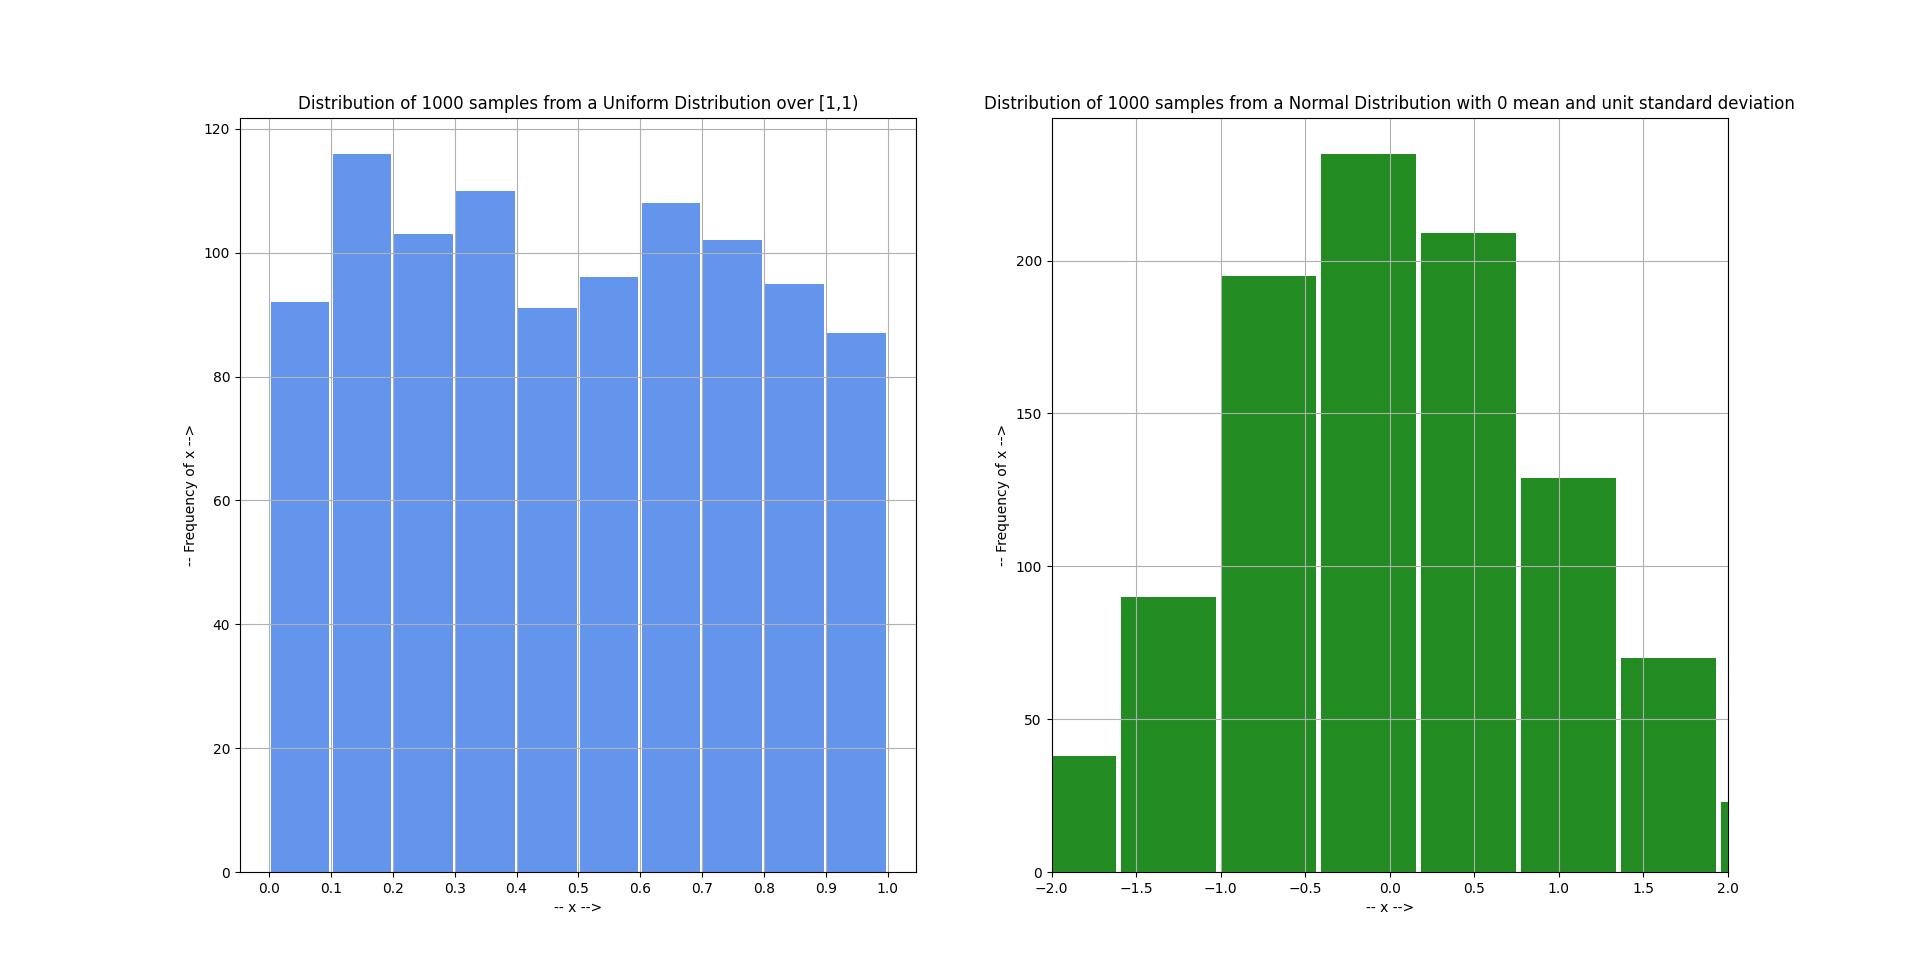
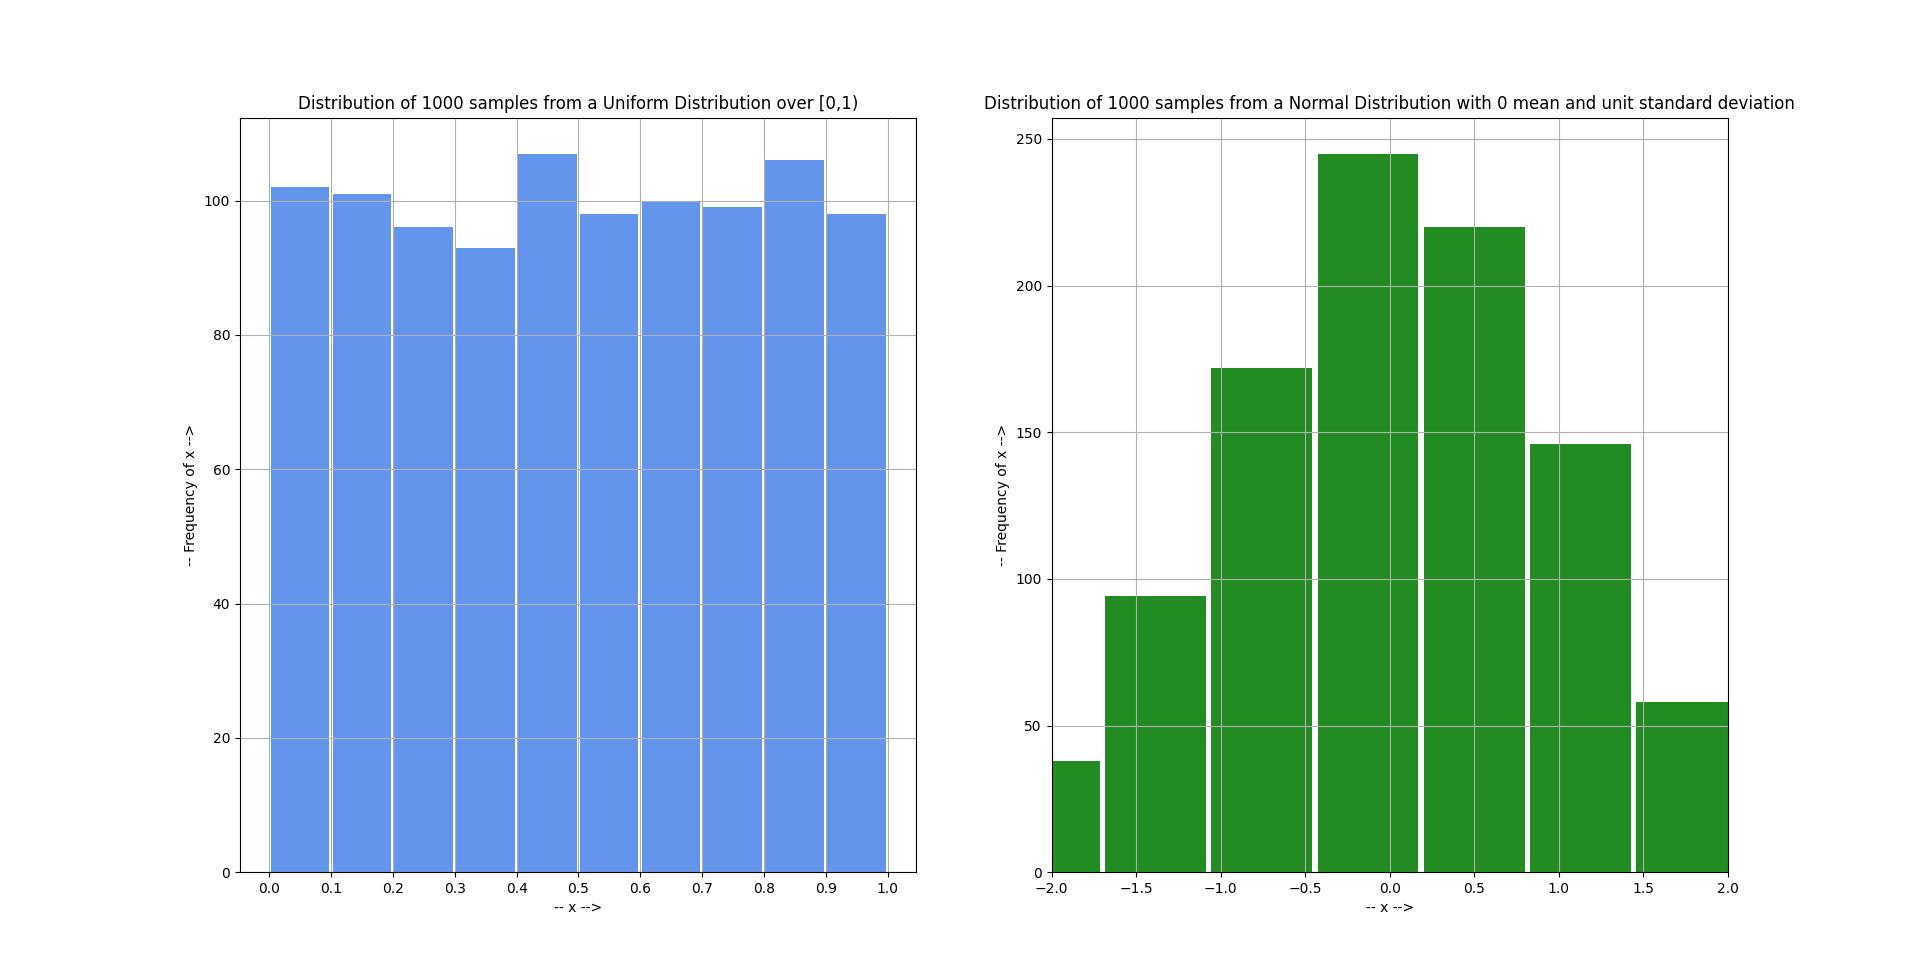
corrected title error in histograms.py and histograms.png

diff --git a/HW1/histograms.py b/HW1/histograms.py
@@ -15,7 +15,7 @@ def main() :
     ax[0].set_xlabel('-- x -->')
     ax[0].set_xticks(np.arange(0.0,1.1,0.1))
     ax[0].set_ylabel('-- Frequency of x -->')
-    ax[0].set_title('Distribution of 1000 samples from a Uniform Distribution over [1,1)')
+    ax[0].set_title('Distribution of 1000 samples from a Uniform Distribution over [0,1)')
 
     ax[1].hist(normal,rwidth=0.95,color='forestgreen')
     ax[1].grid()
